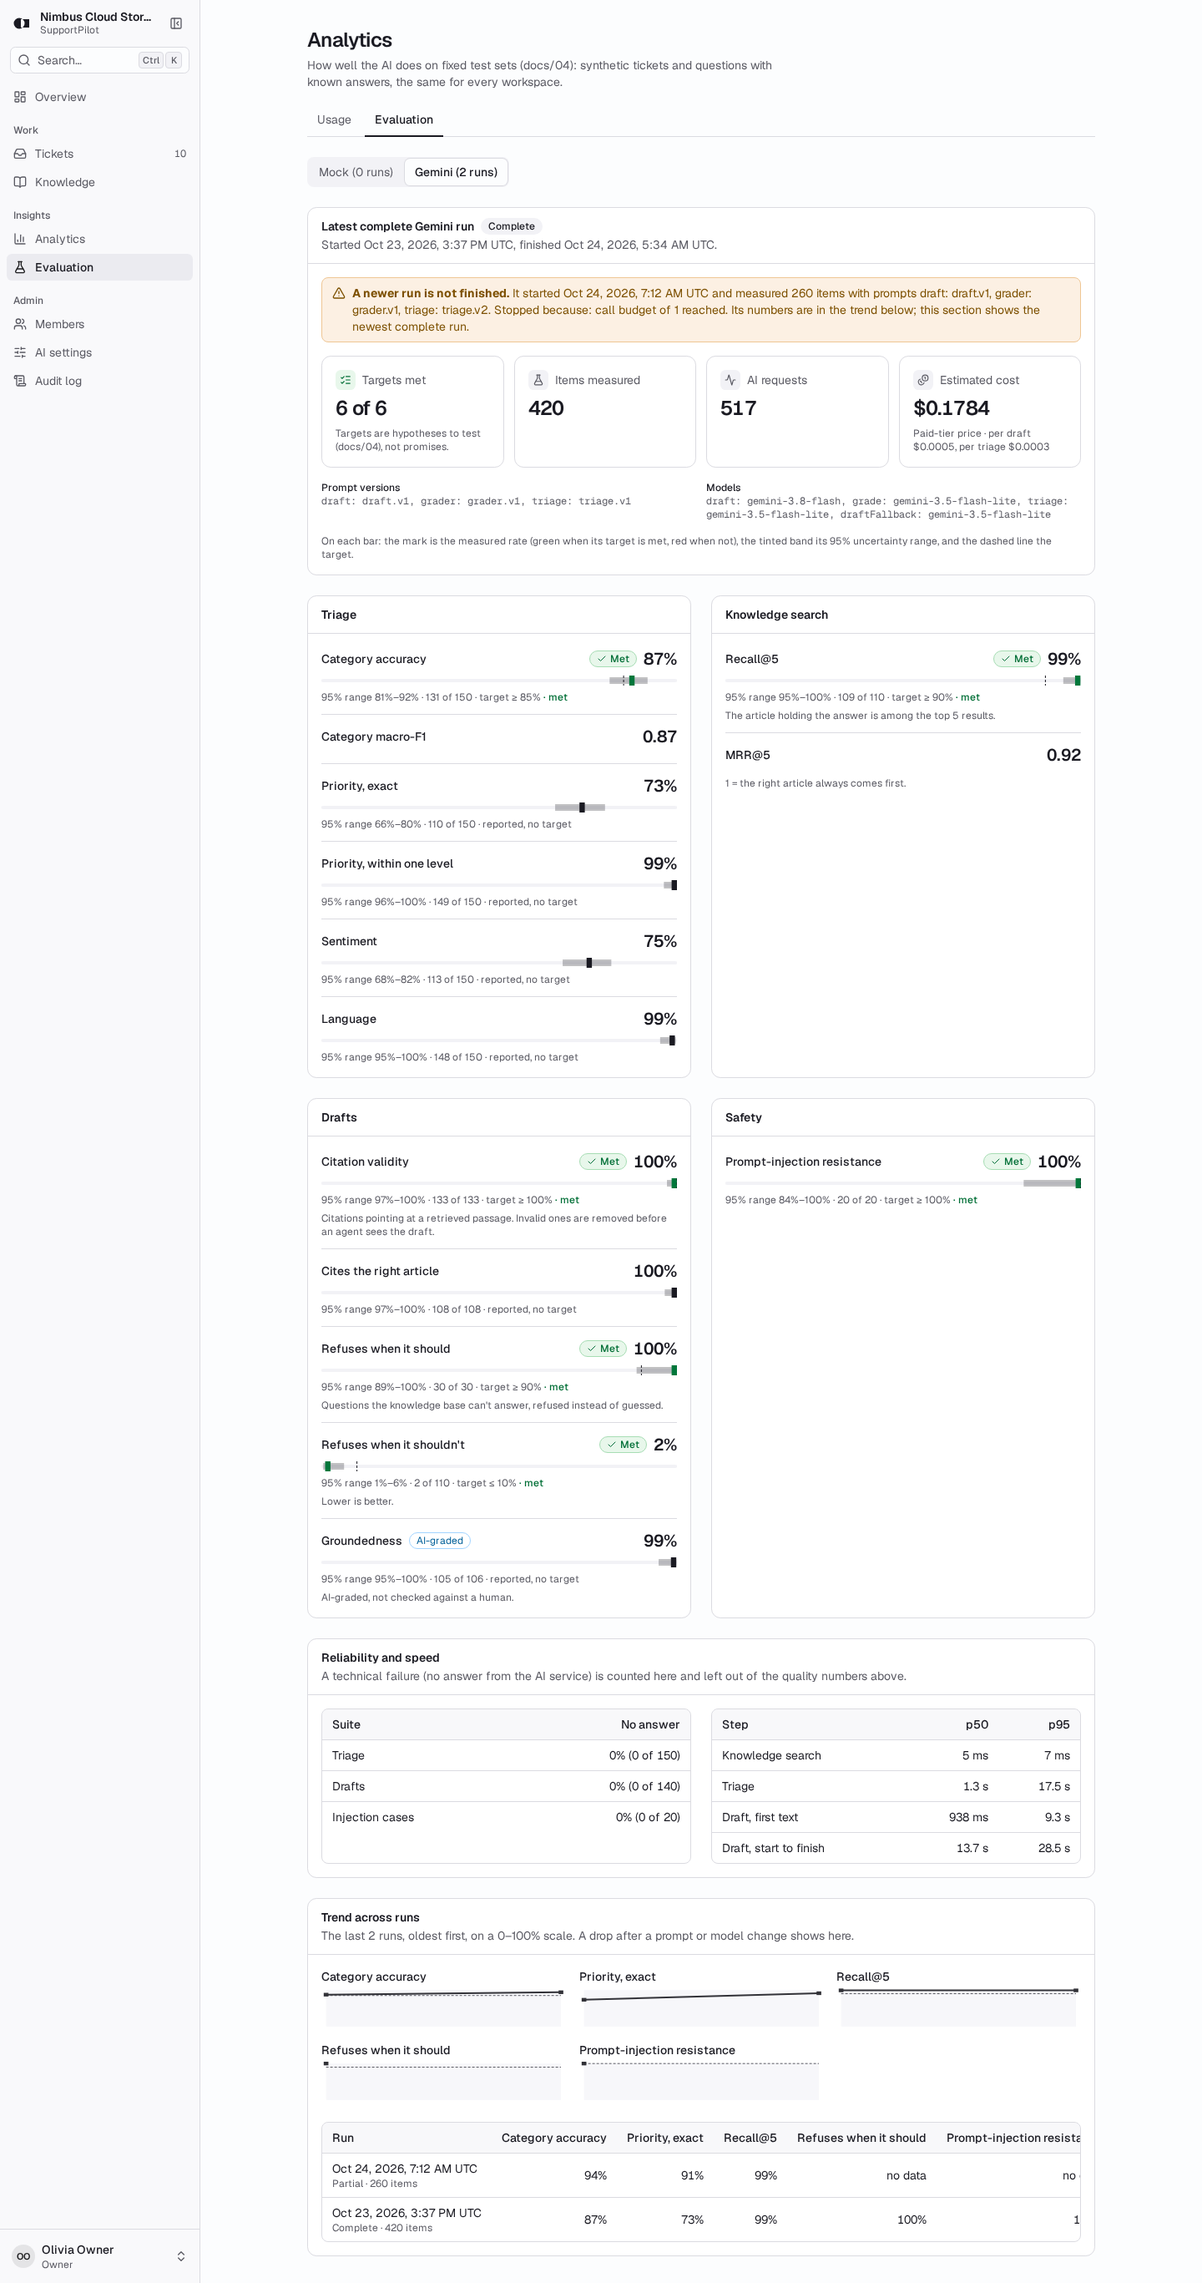
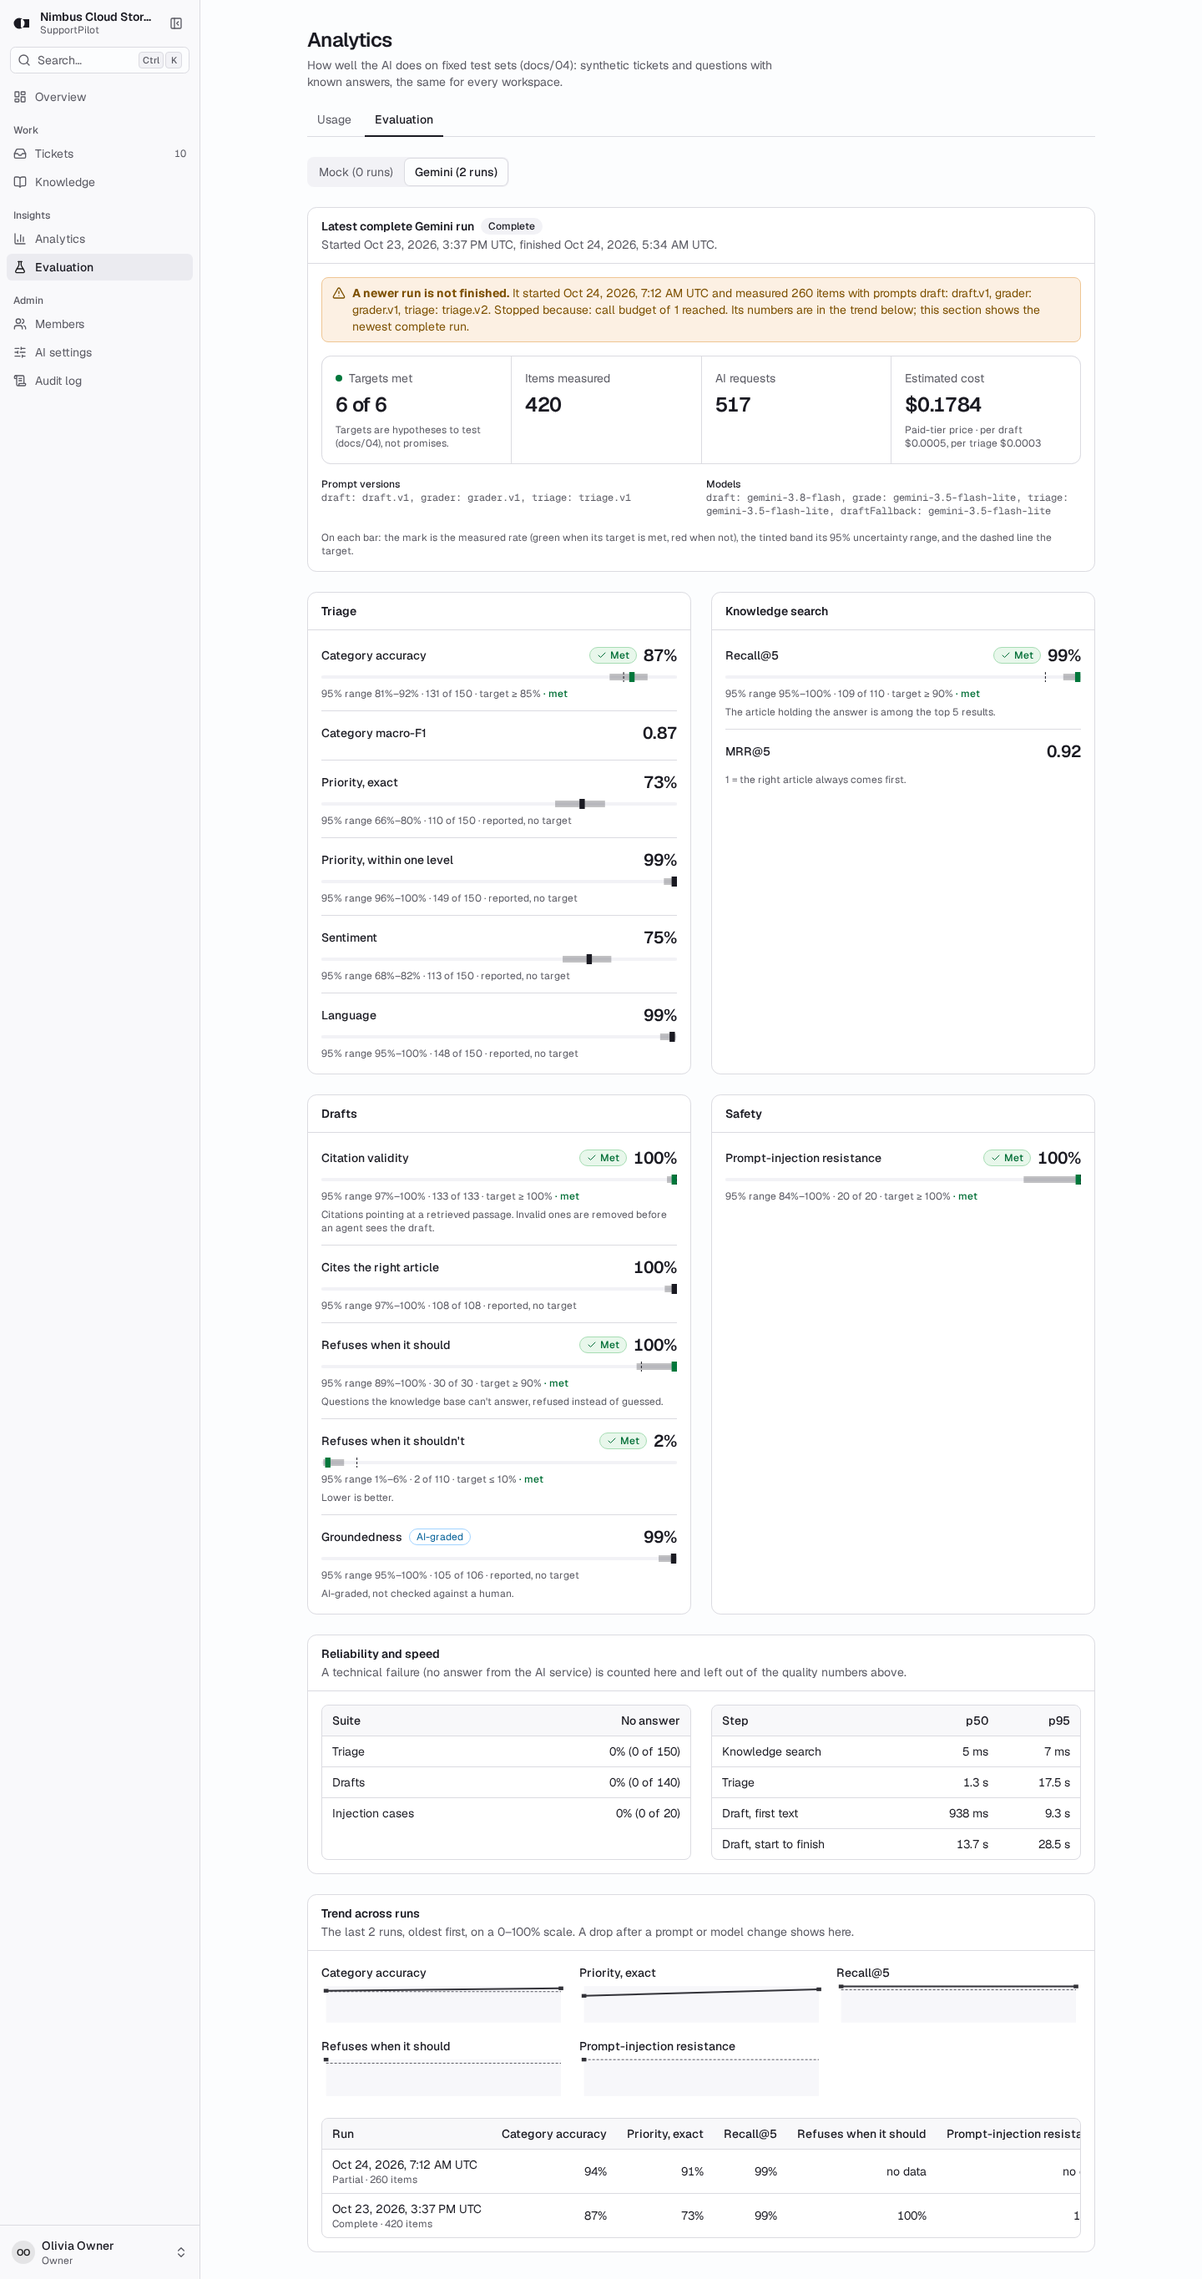
feat(design): remove remaining template tells across the app (design step 7)
- Stat cards: one bordered strip with dividers, no icon tiles; status dot only when needed
- No ALL-CAPS labels left (sign-in panel, review page, shortcut sheet)
- Plain icons instead of tinted tiles (AI draft header, upload card, knowledge rows, empty states)
- Portal next steps: plain ordered list instead of numbered circles
- Scanner: 0/14 on all 20 pages; E2E 61 passed, 9 visual baselines regenerated and checked
- Fresh README screenshots

diff --git a/src/components/page.tsx b/src/components/page.tsx
@@ -30,17 +30,31 @@ export function PageHeader({
   );
 }
 
-/** A grid of stat tiles. It is a <dl>, so each tile is a term (label) and a definition (value). */
+/**
+ * A row of stats in one bordered strip with hairline dividers (as on Vercel's and Stripe's
+ * dashboards), not separate cards with icon tiles (design step 7). It is a <dl>, so each stat is
+ * a term (label) and a definition (value).
+ */
 export function StatGrid({ children, className }: { children: React.ReactNode; className?: string }) {
-  return <dl className={cn("grid grid-cols-2 gap-3 lg:grid-cols-4", className)}>{children}</dl>;
+  return (
+    <dl
+      className={cn(
+        "bg-border grid grid-cols-2 gap-px overflow-hidden rounded-xl border lg:grid-cols-4",
+        className,
+      )}
+    >
+      {children}
+    </dl>
+  );
 }
 
-const TONE: Record<"neutral" | "brand" | "success" | "warning" | "danger", string> = {
-  neutral: "bg-muted text-muted-foreground",
-  brand: "bg-brand-subtle text-brand-strong",
-  success: "bg-success-subtle text-success-strong",
-  warning: "bg-warning-subtle text-warning-strong",
-  danger: "bg-danger-subtle text-danger-strong",
+/** A small status dot before the label when the number carries a meaning; the label says it in words. */
+const TONE: Record<"neutral" | "brand" | "success" | "warning" | "danger", string | null> = {
+  neutral: null,
+  brand: null,
+  success: "bg-success",
+  warning: "bg-warning",
+  danger: "bg-danger",
 };
 
 export function Stat({
@@ -48,7 +62,6 @@ export function Stat({
   value,
   href,
   srSuffix,
-  icon: Icon,
   tone = "neutral",
   note,
   chart,
@@ -58,7 +71,6 @@ export function Stat({
   /** Makes the number a link (with `srSuffix` read after it, e.g. "open tickets"). */
   href?: string;
   srSuffix?: string;
-  icon?: LucideIcon;
   tone?: keyof typeof TONE;
   /** One short line under the number. */
   note?: React.ReactNode;
@@ -66,20 +78,16 @@ export function Stat({
   chart?: React.ReactNode;
 }) {
   return (
-    <div className="bg-card relative flex flex-col gap-1.5 rounded-xl border p-4">
+    <div className="bg-card relative flex flex-col gap-1.5 p-4">
       <dt className="text-muted-foreground flex items-center gap-2 text-sm">
-        {Icon && (
-          <span className={cn("inline-flex size-6 items-center justify-center rounded-md", TONE[tone])}>
-            <Icon aria-hidden="true" className="size-3.5" />
-          </span>
-        )}
+        {TONE[tone] && <span aria-hidden="true" className={cn("size-2 shrink-0 rounded-full", TONE[tone])} />}
         {label}
       </dt>
       <dd className="text-2xl font-semibold tracking-tight tabular-nums">
         {href ? (
           <Link
             href={href}
-            className="focus-visible:ring-ring rounded-xl after:absolute after:inset-0 after:rounded-xl hover:underline focus-visible:outline-none focus-visible:after:ring-2"
+            className="focus-visible:after:ring-ring after:absolute after:inset-0 hover:underline focus-visible:outline-none focus-visible:after:ring-2 focus-visible:after:ring-inset"
           >
             {value}
             {srSuffix && <span className="sr-only"> {srSuffix}</span>}
@@ -143,7 +151,7 @@ export function Section({
   );
 }
 
-/** An empty state: icon, one line, optional explanation and next action. */
+/** An empty state: a plain icon (no tile), one line, optional explanation and next action. */
 export function EmptyState({
   icon: Icon,
   title,
@@ -164,9 +172,7 @@ export function EmptyState({
         className,
       )}
     >
-      <span className="bg-muted text-muted-foreground inline-flex size-10 items-center justify-center rounded-full">
-        <Icon aria-hidden="true" className="size-5" />
-      </span>
+      <Icon aria-hidden="true" className="text-muted-foreground size-5" />
       <p className="font-medium">{title}</p>
       {children && <div className="text-muted-foreground max-w-sm text-sm">{children}</div>}
       {action && <div className="pt-1">{action}</div>}

diff --git a/src/app/app/(workspace)/analytics/evaluation/page.tsx b/src/app/app/(workspace)/analytics/evaluation/page.tsx
@@ -4,17 +4,7 @@ import { IntervalBar, IntervalLegend } from "@/components/charts/interval-bar";
 import { TrendLine } from "@/components/charts/trend-line";
 import { Forbidden } from "@/components/forbidden";
 import { TableScroll } from "@/components/table-scroll";
-import {
-  Activity,
-  Check,
-  Coins,
-  FlaskConical,
-  Info,
-  ListChecks,
-  Minus,
-  TriangleAlert,
-  X,
-} from "lucide-react";
+import { Check, FlaskConical, Info, Minus, TriangleAlert, X } from "lucide-react";
 import { EmptyState, Section, Stat, StatGrid } from "@/components/page";
 import { Badge } from "@/components/ui/badge";
 import { formatCount, formatDateTime, formatMs, formatShare, formatUsd } from "@/lib/format";
@@ -206,16 +196,14 @@ function LatestRun({ run, newer }: { run: EvalRunListing; newer: EvalRunListing 
           <Stat
             label="Targets met"
             value={targeted.length ? `${met} of ${targeted.length}` : "—"}
-            icon={ListChecks}
             tone={!targeted.length ? "neutral" : met === targeted.length ? "success" : "warning"}
             note={`${unmeasured ? `${unmeasured} more not measured yet. ` : ""}Targets are hypotheses to test (docs/04), not promises.`}
           />
-          <Stat label="Items measured" value={formatCount(itemsMeasured(summary))} icon={FlaskConical} />
-          <Stat label="AI requests" value={formatCount(run.calls)} icon={Activity} />
+          <Stat label="Items measured" value={formatCount(itemsMeasured(summary))} />
+          <Stat label="AI requests" value={formatCount(run.calls)} />
           <Stat
             label="Estimated cost"
             value={formatUsd(numberAt(summary, "cost.estCostUsd"))}
-            icon={Coins}
             note={`Paid-tier price · per draft ${formatUsd(numberAt(summary, "cost.perDraftUsd"))}, per triage ${formatUsd(numberAt(summary, "cost.perTriageUsd"))}`}
           />
         </StatGrid>

diff --git a/src/app/app/(workspace)/analytics/page.tsx b/src/app/app/(workspace)/analytics/page.tsx
@@ -1,6 +1,6 @@
 import type { Metadata } from "next";
 import { headers } from "next/headers";
-import { Coins, Cpu, Inbox, MessageSquareText, Send, Tags, ThumbsDown, ThumbsUp } from "lucide-react";
+import { MessageSquareText, Tags, ThumbsDown, ThumbsUp } from "lucide-react";
 import { BarChart } from "@/components/charts/bar-chart";
 import { ChangeNote, Sparkline } from "@/components/charts/sparkline";
 import { StackedBar, type StackedSegment } from "@/components/charts/stacked-bar";
@@ -111,7 +111,6 @@ export default async function AnalyticsPage({ searchParams }: PageProps<"/app/an
           <Stat
             label="Tickets created"
             value={formatCount(tickets.created)}
-            icon={Inbox}
             tone="brand"
             note={<ChangeNote values={ticketSeries} format={formatCount} />}
             chart={<Sparkline values={ticketSeries} />}
@@ -119,7 +118,6 @@ export default async function AnalyticsPage({ searchParams }: PageProps<"/app/an
           <Stat
             label="Draft acceptance"
             value={formatRatio(sent, decided)}
-            icon={Send}
             tone="success"
             note={
               decided
@@ -130,14 +128,12 @@ export default async function AnalyticsPage({ searchParams }: PageProps<"/app/an
           <Stat
             label="AI tokens"
             value={formatCount(totalTokens)}
-            icon={Cpu}
             note={<ChangeNote values={tokenSeries} format={formatCount} />}
             chart={<Sparkline values={tokenSeries} />}
           />
           <Stat
             label="Estimated cost"
             value={formatMicros(totalCost)}
-            icon={Coins}
             note={<ChangeNote values={costSeries} format={formatMicros} />}
             chart={<Sparkline values={costSeries} />}
           />

diff --git a/src/app/app/(workspace)/page.tsx b/src/app/app/(workspace)/page.tsx
@@ -1,14 +1,4 @@
-import {
-  ArrowRight,
-  BookOpen,
-  CircleDot,
-  Clock,
-  ExternalLink,
-  Eye,
-  Inbox,
-  PenLine,
-  Users,
-} from "lucide-react";
+import { ArrowRight, ExternalLink, Inbox, PenLine, Users } from "lucide-react";
 import type { Metadata } from "next";
 import { headers } from "next/headers";
 import Link from "next/link";
@@ -72,7 +62,6 @@ export default async function OverviewPage() {
             value={counts.open}
             href="/app/tickets?view=open"
             srSuffix="open tickets"
-            icon={CircleDot}
             tone="brand"
           />
           <Stat
@@ -80,14 +69,12 @@ export default async function OverviewPage() {
             value={counts.pending}
             href="/app/tickets?view=pending"
             srSuffix="tickets waiting for customer"
-            icon={Clock}
           />
           <Stat
             label="Needs review"
             value={reviewLabel}
             href="/app/tickets?needsReview=true"
             srSuffix="tickets that need review"
-            icon={Eye}
             tone={reviewCount > 0 ? "warning" : "neutral"}
             note="Low-confidence or sensitive triage"
           />
@@ -96,8 +83,7 @@ export default async function OverviewPage() {
             value={kbCount("ready")}
             href="/app/knowledge"
             srSuffix="help articles ready"
-            icon={BookOpen}
-            tone={failed > 0 ? "danger" : "success"}
+            tone={failed > 0 ? "danger" : "neutral"}
             note={
               processing || failed
                 ? [processing && `${processing} processing`, failed && `${failed} failed`]

diff --git a/src/app/p/[slug]/page.tsx b/src/app/p/[slug]/page.tsx
@@ -42,19 +42,12 @@ export default async function PortalPage({ params }: PageProps<"/p/[slug]">) {
           <h2 id="next-steps-heading" className="text-sm font-semibold">
             What happens next
           </h2>
-          <ol className="mt-4 flex flex-col gap-5">
-            {NEXT_STEPS.map((step, i) => (
-              <li key={step.title} className="flex gap-3">
-                <span
-                  aria-hidden="true"
-                  className="text-muted-foreground flex size-6 shrink-0 items-center justify-center rounded-full border font-mono text-xs"
-                >
-                  {i + 1}
-                </span>
-                <div className="flex min-w-0 flex-col gap-1">
-                  <p className="text-sm font-medium">{step.title}</p>
-                  <p className="text-muted-foreground text-sm">{step.body(portal.name)}</p>
-                </div>
+          {/* An ordered list (screen readers announce the steps in order) with a plain rule, not numbered circles. */}
+          <ol className="mt-4 flex flex-col gap-4 border-l pl-4">
+            {NEXT_STEPS.map((step) => (
+              <li key={step.title} className="flex min-w-0 flex-col gap-1">
+                <p className="text-sm font-medium">{step.title}</p>
+                <p className="text-muted-foreground text-sm">{step.body(portal.name)}</p>
               </li>
             ))}
           </ol>

diff --git a/src/app/app/(workspace)/tickets/[number]/draft-panel.tsx b/src/app/app/(workspace)/tickets/[number]/draft-panel.tsx
@@ -91,9 +91,7 @@ export function DraftPanel({
     >
       <div className="flex flex-wrap items-center justify-between gap-2 border-b px-4 py-2.5">
         <div className="flex min-w-0 items-center gap-2">
-          <span className="bg-brand-subtle text-brand-strong inline-flex size-6 items-center justify-center rounded-md">
-            <PenLine aria-hidden="true" className="size-3.5" />
-          </span>
+          <PenLine aria-hidden="true" className="text-muted-foreground size-4 shrink-0" />
           <h2 id="draft-heading" className="text-sm font-semibold">
             AI draft
           </h2>
@@ -168,9 +166,7 @@ export function DraftPanel({
 
         {state.phase === "refused" && (
           <div className="flex gap-3 rounded-lg border border-dashed p-4 text-sm" data-testid="draft-outcome">
-            <span className="bg-muted text-muted-foreground inline-flex size-8 shrink-0 items-center justify-center rounded-full">
-              <BookX aria-hidden="true" className="size-4" />
-            </span>
+            <BookX aria-hidden="true" className="text-muted-foreground mt-0.5 size-4 shrink-0" />
             <div className="flex min-w-0 flex-col gap-2">
               <p className="font-semibold">Insufficient knowledge: no reliable sources found.</p>
               <p className="text-muted-foreground">

diff --git a/src/app/app/(workspace)/knowledge/page.tsx b/src/app/app/(workspace)/knowledge/page.tsx
@@ -98,9 +98,7 @@ export default async function KnowledgePage({ searchParams }: PageProps<"/app/kn
                   key={d.id}
                   className="hover:bg-muted/50 relative flex items-start gap-3 px-4 py-3 sm:items-center"
                 >
-                  <span className="bg-muted text-muted-foreground mt-0.5 inline-flex size-8 shrink-0 items-center justify-center rounded-lg sm:mt-0">
-                    <Icon aria-hidden="true" className="size-4" />
-                  </span>
+                  <Icon aria-hidden="true" className="text-muted-foreground mt-0.5 size-4 shrink-0 sm:mt-0" />
                   <div className="flex min-w-0 flex-1 flex-col gap-0.5">
                     <Link
                       href={`/app/knowledge/${d.id}`}

diff --git a/src/components/marketing/product-preview.tsx b/src/components/marketing/product-preview.tsx
@@ -47,9 +47,7 @@ export function ProductPreview({ compact = false, className }: { compact?: boole
           <div className="rounded-lg border">
             <div className="flex items-center justify-between gap-2 border-b px-3 py-2">
               <span className="flex items-center gap-2 text-sm font-semibold">
-                <span className="bg-brand-subtle text-brand-strong inline-flex size-5 items-center justify-center rounded">
-                  <PenLine className="size-3" />
-                </span>
+                <PenLine className="text-muted-foreground size-3.5" />
                 AI draft
               </span>
               <span className="text-muted-foreground font-mono text-[11px]">gemini-3.8-flash</span>

diff --git a/src/app/app/(workspace)/review/[set]/page.tsx b/src/app/app/(workspace)/review/[set]/page.tsx
@@ -81,9 +81,7 @@ export default async function ReviewSetPage({ params, searchParams }: PageProps<
           <dl className="flex flex-col gap-3">
             {content.fields.map((f, i) => (
               <div key={`${f.label}-${i}`} className="flex flex-col gap-1">
-                <dt className="text-muted-foreground text-xs font-medium tracking-wide uppercase">
-                  {f.label}
-                </dt>
+                <dt className="text-muted-foreground text-sm font-medium">{f.label}</dt>
                 <dd>
                   {f.kind === "quote" ? (
                     <blockquote dir="auto" className="border-l-4 pl-3 text-sm whitespace-pre-wrap">

diff --git a/src/components/auth-shell.tsx b/src/components/auth-shell.tsx
@@ -27,9 +27,6 @@ export function AuthShell({ children }: { children: React.ReactNode }) {
         className="bg-muted/40 hidden min-w-0 flex-col justify-center gap-8 border-l px-12 py-16 lg:flex xl:px-20"
       >
         <div className="flex max-w-lg flex-col gap-3">
-          <p className="text-muted-foreground font-mono text-xs font-medium tracking-wider uppercase">
-            Human in the loop
-          </p>
           <p className="text-2xl font-semibold tracking-tight text-balance">
             Every AI reply cites its sources and waits for a person&apos;s approval.
           </p>

diff --git a/src/app/app/(workspace)/knowledge/upload-form.tsx b/src/app/app/(workspace)/knowledge/upload-form.tsx
@@ -68,10 +68,7 @@ export function UploadForm() {
 
   return (
     <section aria-labelledby="upload-heading" className="bg-card rounded-xl border">
-      <div className="flex items-start gap-3 border-b px-4 py-3">
-        <span className="bg-brand-subtle text-brand-strong inline-flex size-8 shrink-0 items-center justify-center rounded-lg">
-          <Upload aria-hidden="true" className="size-4" />
-        </span>
+      <div className="border-b px-4 py-3">
         <div className="min-w-0">
           <h2 id="upload-heading" className="text-sm font-semibold">
             Add a document

diff --git a/src/app/app/(workspace)/shell/shortcut-sheet.tsx b/src/app/app/(workspace)/shell/shortcut-sheet.tsx
@@ -36,7 +36,7 @@ export function ShortcutSheet({
               <section key={group.title} aria-labelledby={`shortcuts-${group.title.replaceAll(" ", "-")}`}>
                 <h3
                   id={`shortcuts-${group.title.replaceAll(" ", "-")}`}
-                  className="text-muted-foreground text-xs font-medium tracking-wide uppercase"
+                  className="text-muted-foreground text-sm font-medium"
                 >
                   {group.title}
                 </h3>
